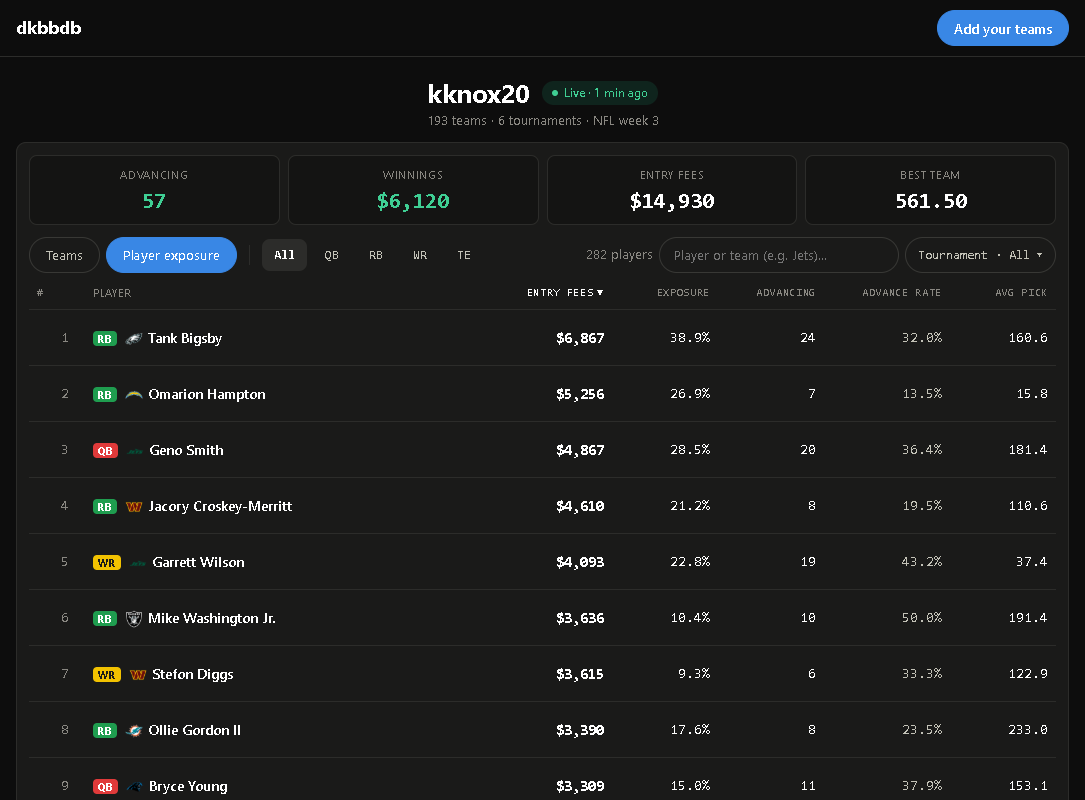
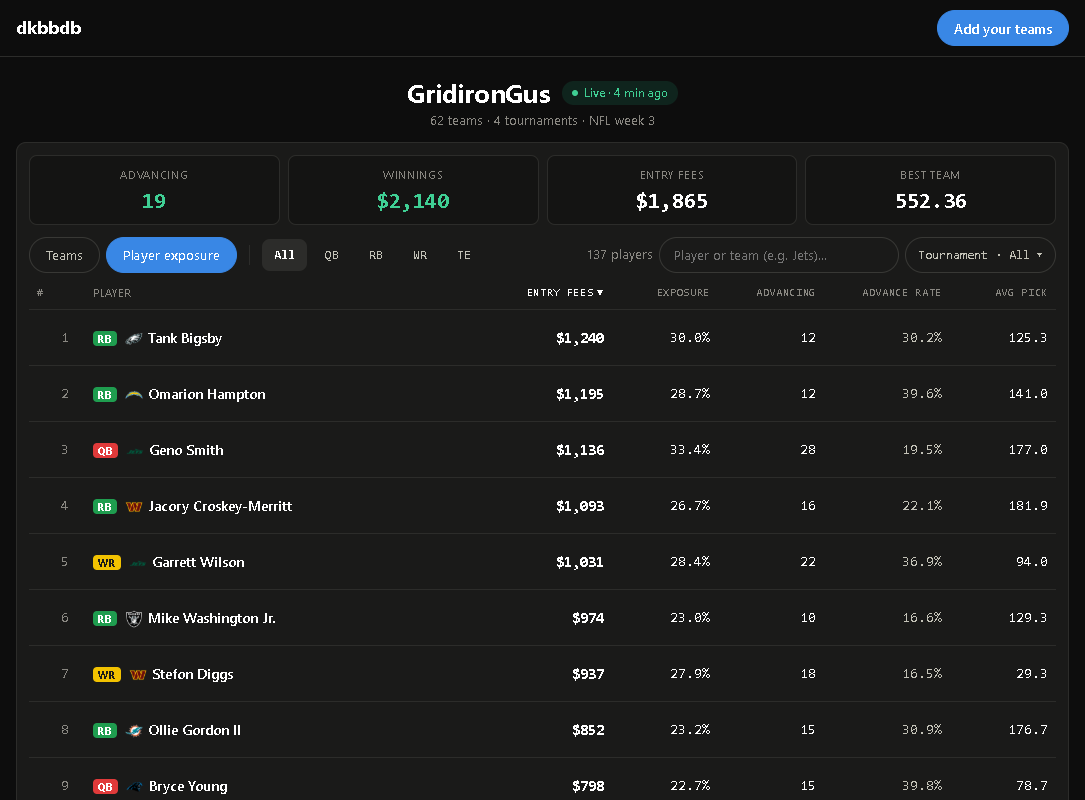
dkbbdb home: the preview is a sample page (made-up name and numbers), not the owner's, and no longer links anywhere

diff --git a/public/index.html b/public/index.html
@@ -36,11 +36,11 @@
 
   <figure class="peek" id="peek">
     <div class="tabs" role="tablist"><button class="on" type="button" data-v="teams">Teams</button><button type="button" data-v="exposure">Player exposure</button></div>
-    <a class="shot" id="peekLink" href="/u/kknox20"><picture>
+    <div class="shot"><picture>
       <source id="peekPhone" media="(max-width: 640px)" srcset="/preview-phone.png" width="375" height="760">
-      <img id="peekImg" src="/preview-teams.png" width="1085" height="800" alt="A synced page on dkbbdb: every team's league place, cut line and points, scored live">
-    </picture></a>
-    <figcaption>This is what you get: one page for your account, scored live during the games. It is a real page &mdash; <a href="/u/kknox20">open it</a>. There is no search on the site; yours will be at <span class="mono">dkbbdb.com/u/your-username</span> and anyone you give that link to can see it.</figcaption>
+      <img id="peekImg" src="/preview-teams.png" width="1085" height="800" alt="A synced page on dkbbdb (sample data): every team's league place, cut line and points, scored live">
+    </picture></div>
+    <figcaption>This is what you get: one page for your account, scored live during the games (sample data). There is no search on the site; your page will be at <span class="mono">dkbbdb.com/u/your-username</span> and anyone you give that link to can see it.</figcaption>
   </figure>
 
   <div class="step">
@@ -73,7 +73,6 @@ document.querySelectorAll("#peek .tabs button").forEach((b) => b.addEventListene
   const xp = b.dataset.v === "exposure";
   document.getElementById("peekPhone").srcset = xp ? "/preview-phone-exposure.png" : "/preview-phone.png";
   document.getElementById("peekImg").src = xp ? "/preview-exposure.png" : "/preview-teams.png";
-  document.getElementById("peekLink").href = xp ? "/u/kknox20?tab=exposure" : "/u/kknox20";
 }));
 document.getElementById("go").addEventListener("submit", (e) => { e.preventDefault(); const n = e.target.querySelector("input").value.trim(); if (n) location.href = "/u/" + encodeURIComponent(n) + "?me=1"; });
 </script>

diff --git a/public/site.css b/public/site.css
@@ -179,7 +179,7 @@ td.user .pos { margin-right: 4px; }
 .mine:hover { background: #222220; }
 .mono { font-family: ui-monospace, Consolas, monospace; font-size: 13px; color: var(--ink); }
 
-/* home page: a real synced page (kknox20's) above the steps — Teams / Player exposure tabs swap the picture; a phone
+/* home page: a sample synced page (made-up name and numbers) above the steps — Teams / Player exposure tabs swap the picture; a phone
    sees the phone view (the <source>), at its own width */
 .peek { margin: 0 0 18px; }
 .peek .tabs { display: flex; gap: 6px; margin-bottom: 8px; }
